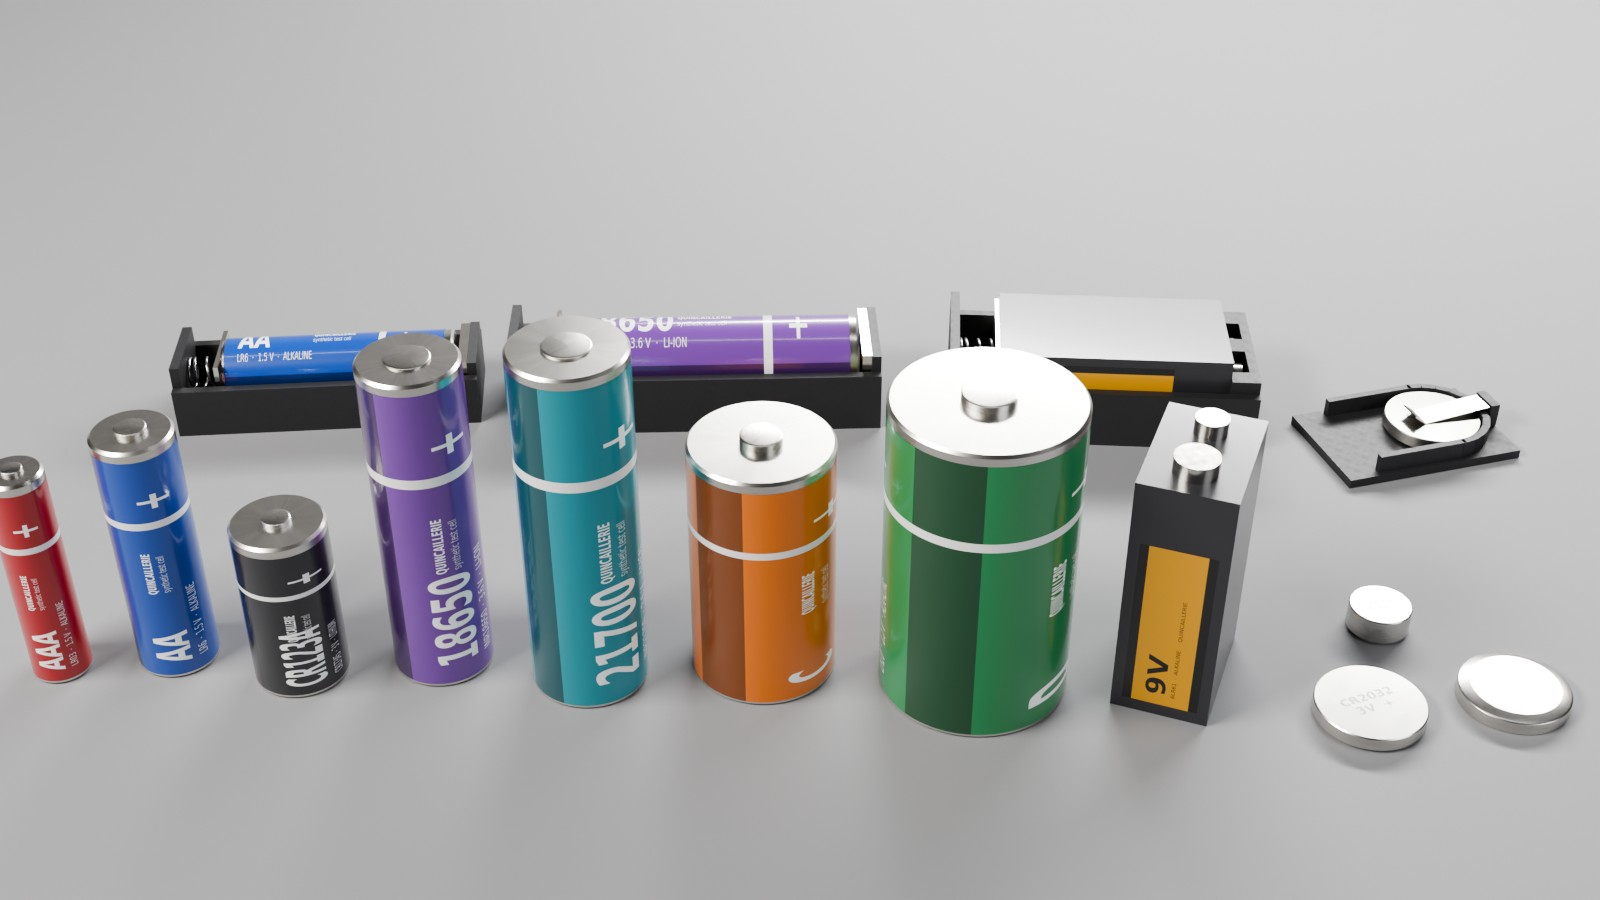
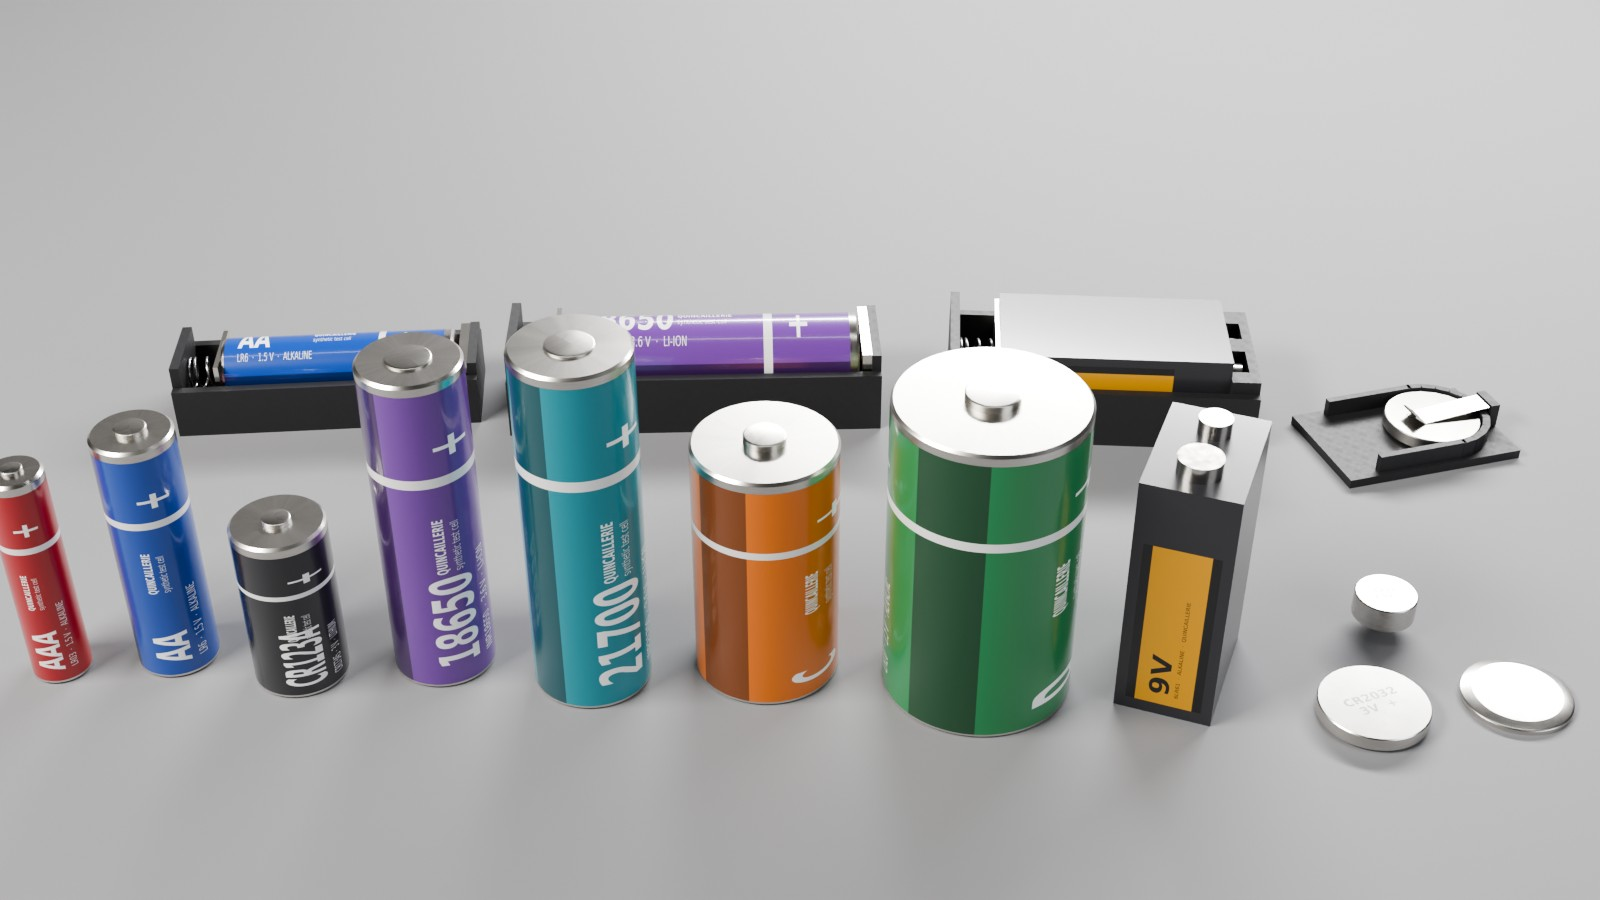
docs: images rendered again with the sourced values (PRV-33)
Claude-Session: https://claude.ai/code/session_01UFTdhx1MUVEJrqveU42xWj

diff --git a/scripts/gif_blender.py b/scripts/gif_blender.py
@@ -87,6 +87,9 @@ def main():
     if mode == "drop":
         sc.frame_start, sc.frame_end = 1, n
         import_with_physics(scene_path)
+        for o in bpy.data.objects:  # the shared ground still collides; the studio's floor is what is seen
+            if o.name.split(".")[0] == "Ground":
+                o.hide_render = True
         sc.rigidbody_world.point_cache.frame_end = n
         studio(W, H, spp, eye, tgt, lens)
         for f in range(1, n + 1):

diff --git a/scripts/physics_gifs.py b/scripts/physics_gifs.py
@@ -323,7 +323,7 @@ def main(argv=None):
     ap.add_argument("--out", default="docs/images")
     ap.add_argument("--only", default="drop,screwing,insertion,jam")
     ap.add_argument("--samples", type=int, default=24)
-    ap.add_argument("--size", default="720,405")
+    ap.add_argument("--size", default="640,360")
     ap.add_argument("--keep", help="keep the work folder here")
     args = ap.parse_args(argv)
     out = Path(args.out)

diff --git a/CHANGELOG.md b/CHANGELOG.md
@@ -37,6 +37,12 @@ The same seed gives the same parts, except for the cells' defects:
 
 ### Changed
 
+- README and docs images rendered again with the sourced values of PRV-33
+  (cell sizes and masses, the draws within the standards' tolerances): the
+  cells, the variation and the social preview renders, and the drop and
+  insertion GIFs, simulated again. The drop GIF no longer shows the shared
+  ground, which still collides, but the studio floor, as the stills do; the
+  GIFs' default size is the published 640 × 360.
 - The insertion check judges a cell by its own size: a cell shorter than
   nominal sits that much further along, and one thinner than nominal may be
   held by its contacts just above the bed. Cells now vary down to their
